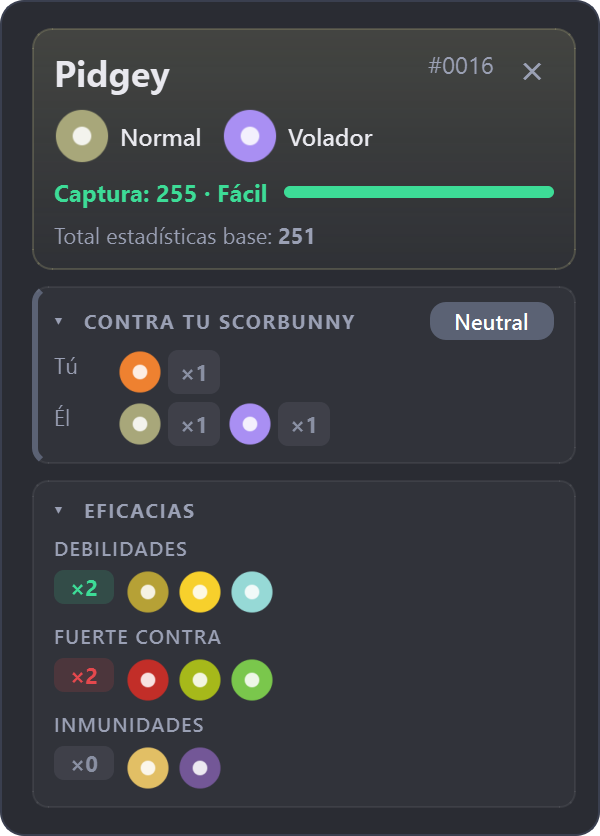
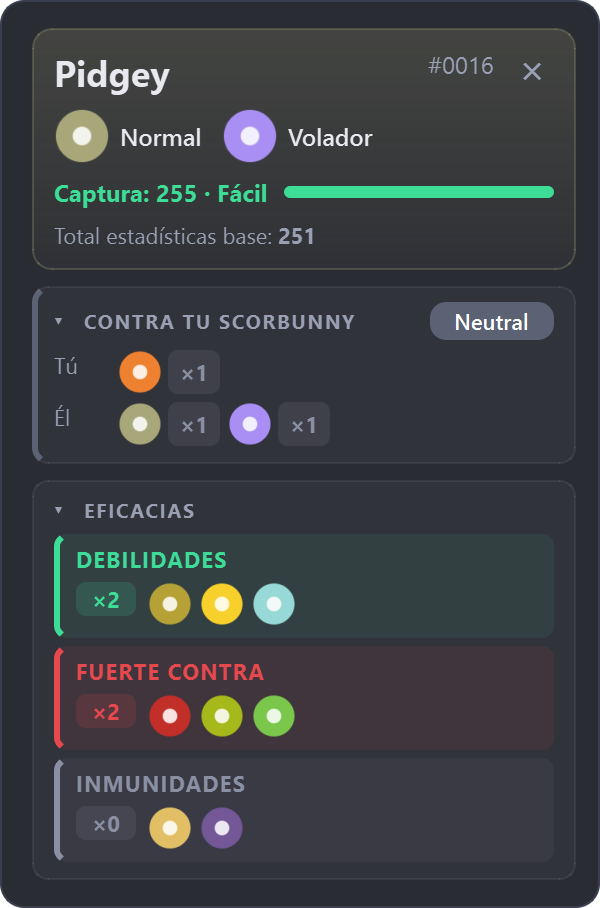
docs: capturas regeneradas con las franjas y los iconos de tipo

diff --git a/site/guide.html b/site/guide.html
@@ -360,7 +360,7 @@
           <h3 id="iconos-de-tipo">Tipos como iconos</h3>
           <div class="pair">
             <figure class="shot shot-card">
-              <img src="assets/guide/es/card-icons.png" width="300" height="418" loading="lazy" alt="Ficha de Pidgey con los tipos como iconos: icono y nombre en la cabecera y solo el icono en el resto">
+              <img src="assets/guide/es/card-icons.png" width="300" height="454" loading="lazy" alt="Ficha de Pidgey con los tipos como iconos: icono y nombre en la cabecera y solo el icono en el resto">
               <figcaption>Con <i>Tipos como iconos</i> activado.</figcaption>
             </figure>
             <div>
@@ -797,7 +797,7 @@
           <h3 id="type-icons">Types as icons</h3>
           <div class="pair">
             <figure class="shot shot-card">
-              <img src="assets/guide/en/card-icons.png" width="300" height="418" loading="lazy" alt="Pidgey card with types as icons: icon and name in the header and just the icon elsewhere">
+              <img src="assets/guide/en/card-icons.png" width="300" height="454" loading="lazy" alt="Pidgey card with types as icons: icon and name in the header and just the icon elsewhere">
               <figcaption>With <i>Types as icons</i> on.</figcaption>
             </figure>
             <div>
